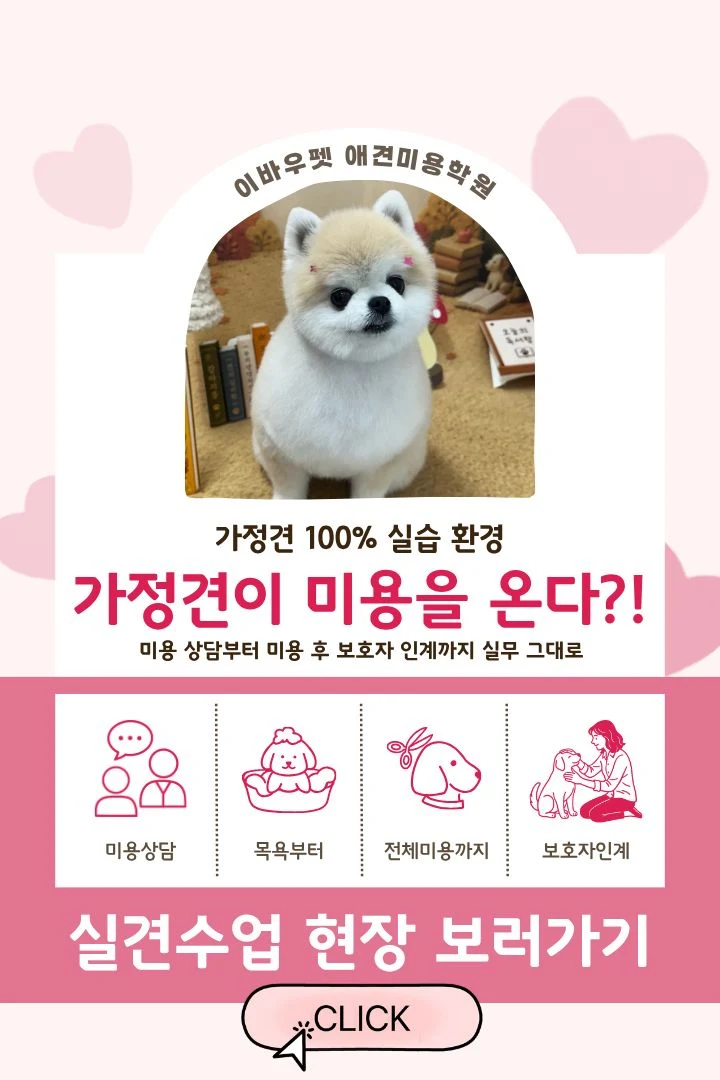
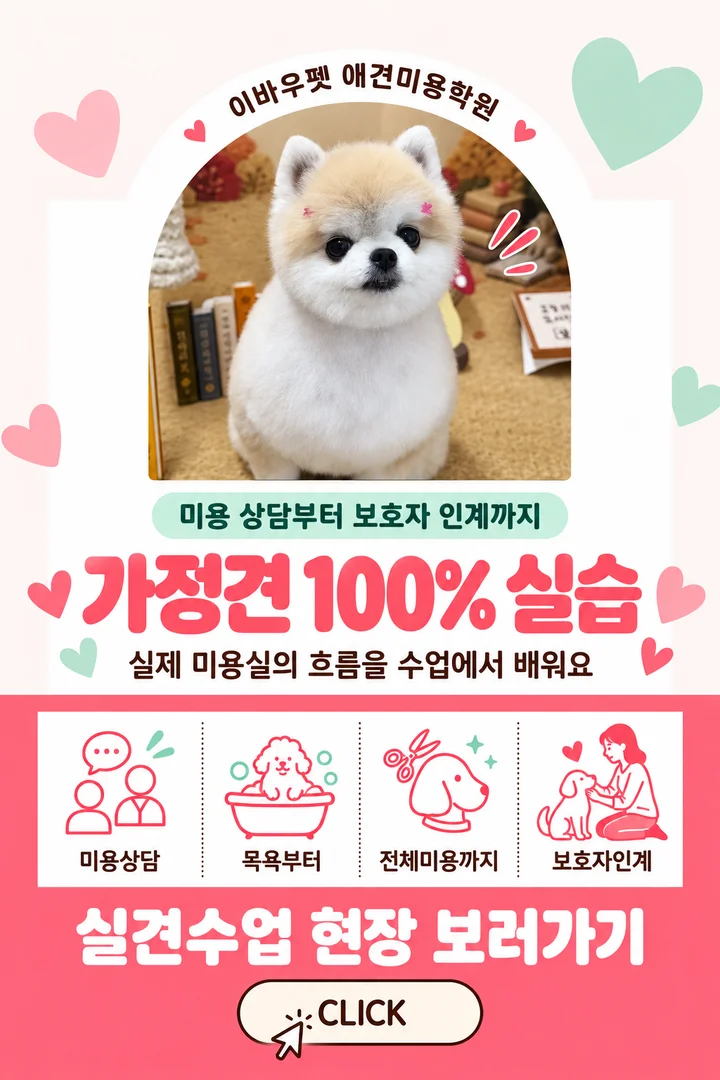
feat: 가정견 실습 카드 이미지 교체, 모바일 배너 아래 문구 블록(HeroCopy) 삭제

diff --git a/app/globals.css b/app/globals.css
@@ -160,21 +160,7 @@ h1,h2,h3{line-height:1.3; margin:0 0 12px}
 .hero-carousel .swiper-button-next::after{font-size:1.1rem; font-weight:700}
 .hero-carousel .swiper-pagination-bullet{background:rgba(255,255,255,.55); opacity:1; transition:width .2s ease, background-color .2s ease}
 .hero-carousel .swiper-pagination-bullet-active{width:22px; border-radius:4px; background:#fff}
-.hero-copy{
-  position:absolute; inset:0; display:flex; flex-direction:column; justify-content:center;
-  padding:0 8%; color:#fff; text-shadow:0 2px 10px rgba(0,0,0,.35); pointer-events:none;
-  background:linear-gradient(90deg, rgba(20,20,20,.45), rgba(20,20,20,.05) 70%);
-}
-.hero-copy a{pointer-events:auto}
-/* 2026-10-07: PC 배너 이미지에 문구가 이미 들어 있어 겹치는 오버레이 문구는 숨김(모바일은 배너 대신 이 문구가 노출) */
-@media (min-width:1025px){.hero-copy{display:none}}
-.hero-copy .eyebrow{font-weight:700; letter-spacing:.05em; margin-bottom:10px; opacity:.9}
-.hero-copy h1{font-size:clamp(1.5rem,3.2vw,1.9rem); font-weight:700}
-.hero-copy .lead{margin:0 0 20px; font-size:1.05rem}
-.hero-copy .eyebrow.hero-badge{
-  display:inline-flex; width:fit-content; background:rgba(255,255,255,.16); border:1px solid rgba(255,255,255,.4);
-  border-radius:var(--radius-full); padding:6px 14px; opacity:1; backdrop-filter:blur(2px);
-}
+.sr-only{position:absolute; width:1px; height:1px; padding:0; margin:-1px; overflow:hidden; clip:rect(0,0,0,0); white-space:nowrap; border:0}
 
 /* 히어로 보조 CTA·신뢰지표·빠른 과정 탐색 — evaw-pet-grooming.co.kr 구조를 배치까지 그대로 참고:
    왼쪽 CTA버튼+채널행+신뢰바 / 오른쪽 사진(PhotoSlideshow, 반투명 아님 — 레퍼런스처럼 실제 사진), 그 아래
@@ -642,20 +628,6 @@ main section:not(.hero).in-view{opacity:1; transform:none}
   /* 2026-10-07: 모바일에서도 메인 배너 노출(사용자 요청) — 배너에 글자가 들어 있어 잘리지 않게 원본 비율 그대로 전체 표시 */
   .hero-carousel{aspect-ratio:1920/850; height:auto; min-height:0; border-radius:0}
 
-  /* 모바일 가독성 — 레퍼런스(evaw-pet-grooming.co.kr) 모바일 화면 참고(2026-09-15, 카톡 캡처로 비교):
-     사진 위에 흰 글씨를 얹는 대신, 사진 아래에 흰 배경+진한 글씨 블록을 따로 둬서 대비를 확실히 확보.
-     .hero-copy는 DOM상 이미 사진(.hero-carousel) 다음이라 position만 absolute→static으로 바꾸면
-     자연스럽게 사진 아래로 흐름(overlay 관련 스타일도 전부 해제). */
-  .hero-copy{
-    position:static; inset:auto; display:block; padding:28px 20px 8px; color:var(--ink);
-    text-shadow:none; background:var(--canvas); pointer-events:auto; text-align:center;
-  }
-  .hero-copy .lead{color:var(--muted)}
-  .hero-copy .eyebrow.hero-badge{
-    background:var(--primary-disabled); border:none; color:var(--primary); backdrop-filter:none;
-  }
-  /* 2026-09-15: 처음 보이는 이 CTA버튼은 삭제 요청 — 바로 아래 hero-extras의 큰 CTA버튼과 중복이라 정리 */
-  .hero-copy .btn-lg{display:none}
 }
 @media (max-width:900px){
   .two-col{grid-template-columns:1fr}

diff --git a/app/page.tsx b/app/page.tsx
@@ -3,7 +3,6 @@ import CourseCompactList from "@/components/CourseCompactList";
 import ConsultForm from "@/components/ConsultForm";
 import ConsultCtaButton from "@/components/ConsultCtaButton";
 import HeroCarousel from "@/components/HeroCarousel";
-import HeroCopy from "@/components/HeroCopy";
 import HeroCtaRow from "@/components/HeroCtaRow";
 import QuickCourseNav from "@/components/QuickCourseNav";
 import CtaBanner from "@/components/CtaBanner";
@@ -33,7 +32,8 @@ export default function HomePage() {
       {/* 히어로 배너 캐러셀 (PC/모바일 별도 이미지, 6슬라이드 — 켈리스 방식). */}
       <section className="hero" aria-label="메인 배너">
         <HeroCarousel />
-        <HeroCopy />
+        {/* 2026-10-15: 모바일 배너 아래 문구 블록(HeroCopy) 삭제 요청 — 검색엔진용 h1만 화면에 안 보이게 유지 */}
+        <h1 className="sr-only">애견미용학원 자격증 가정견실습 과정 장학지원신청</h1>
       </section>
 
       {/* 히어로 보조 CTA·신뢰지표·빠른 과정 탐색 — evaw-pet-grooming.co.kr 홈 히어로 구조(큰 CTA버튼·채널행·신뢰바·

diff --git a/components/HeroCarousel.tsx b/components/HeroCarousel.tsx
@@ -1,7 +1,7 @@
 import Link from "next/link";
 
 // 메인 배너 — 2026-10-07 사용자 지시로 슬라이드 6장 → 배너 1장 고정(자격증·실견수업 배너, 1920×850).
-// 모바일에서는 .hero-carousel 자체가 숨겨지고 HeroCopy 헤드라인부터 시작(globals.css 참고).
+// 모바일도 배너 원본 비율 그대로 노출(globals.css 참고).
 // ponytail: 배너가 다시 여러 장이 되면 git 이력의 Swiper 버전(ead4642)을 되살리면 됨.
 export default function HeroCarousel() {
   return (
